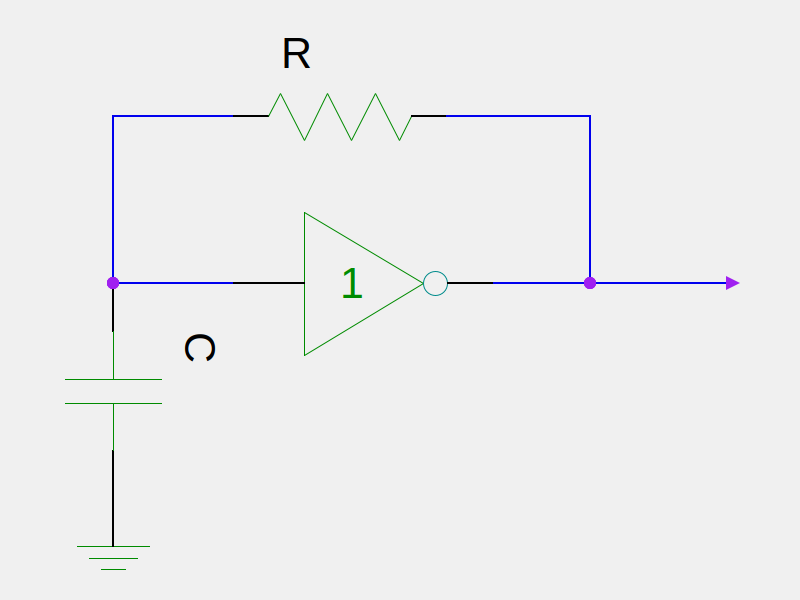
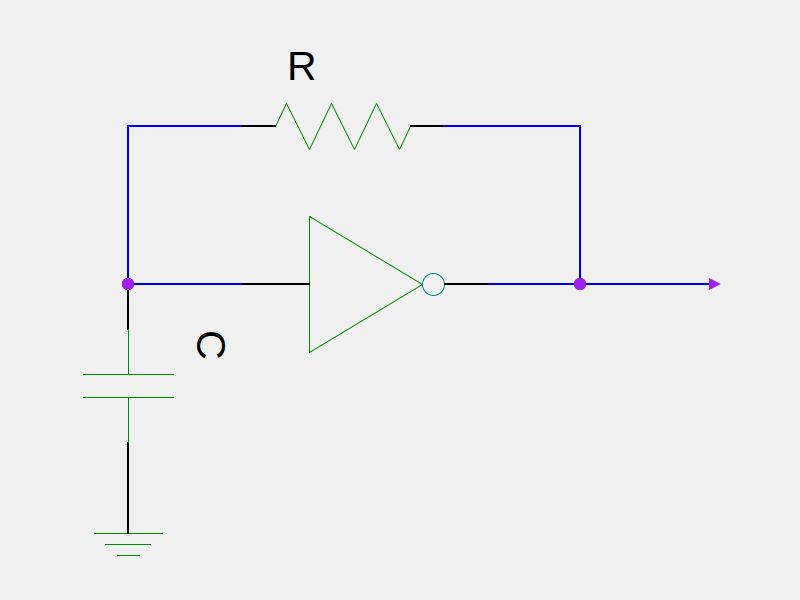
Remove prominent 1 from the inverter body

diff --git a/README.md b/README.md
@@ -46,5 +46,23 @@ the title of the plot from some of the contents of description.dat.  It produces
 
 n.b. the gSchem symbol for an inverter, in schematic/INV1-1.sym, that
 I have used to draw the circuit diagram, is by jpd@noqsi.com, and
-licensed under the GNU General Public License.  See http://www.gedasymbols.org/user/john_doty/symbols/openIP/INV1-1.sym
+licensed under the GNU General Public License.  I have modified it slightly
+to remove the prominant "1" from the inverter body. See http://www.gedasymbols.org/user/john_doty/symbols/openIP/INV1-1.sym
+
+## Build environment
+
+The build environment was Ubuntu 20.04.  The `Makefile` targets are:
+
+1. _default_ Rebuild relaxation executable and plot.pdf
+1. relaxation Rebuild relaxation executable
+1. clean Delete all targets
+
+The dependencies are as follows.  The versions probably don't matter much
+but I have included them in case they do.
+
+* g++ (Ubuntu 9.3.0-10ubuntu2) 9.3.0
+* python (3.8.2)
+* gEDA (1.8.2) - if you want to regenerate schematics/circuit.png which is done manually
+
+
 
